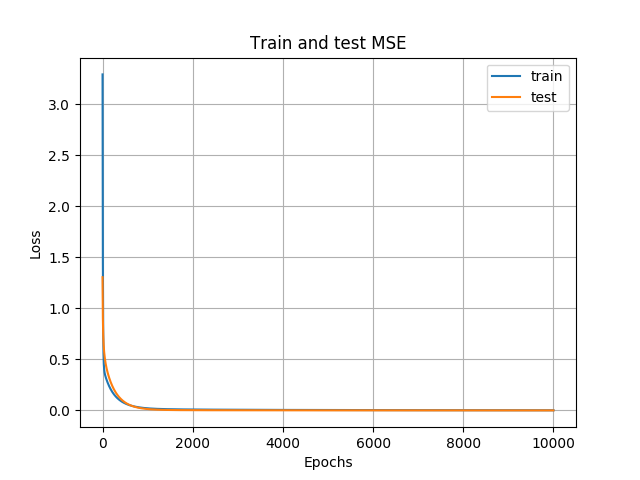
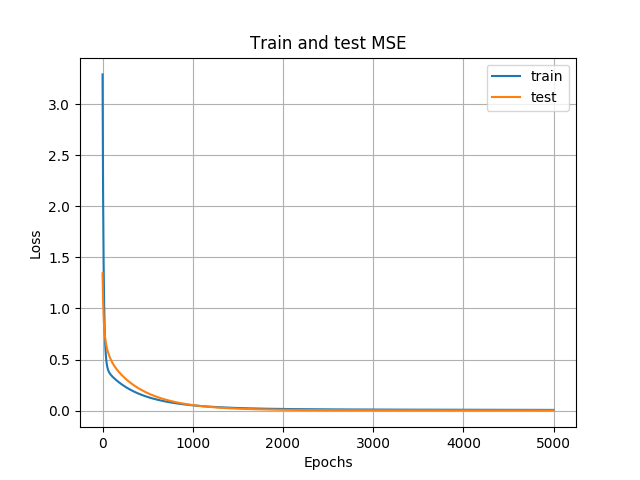
modif xlabel

diff --git a/main.py b/main.py
@@ -1,6 +1,7 @@
 
 import numpy as np
 import matplotlib.pyplot as plt
+import copy
 
 # define the sigmoid function
 def sigmoid(x, derivative=False):
@@ -24,7 +25,7 @@ def relu(x, derivative=False):
 np.random.seed(1)
 
 # learning rate
-alpha = .005
+alpha = .003
 
 # number of nodes in the hidden layer
 num_hidden = 20
@@ -32,6 +33,7 @@ num_hidden = 20
 # Construct Train and Test sest of the Sinus function
 X = np.linspace(-np.pi, np.pi, num=5000)
 X_test = np.linspace(-np.pi / 2, np.pi/2, num=5000)
+xt = copy.deepcopy(X_test)
 X = np.expand_dims(X, axis=1)
 X_test = np.expand_dims(X_test, axis=1)
 
@@ -46,7 +48,7 @@ hidden_weights = 2 * np.random.random((X.shape[1] + 1, num_hidden)) - 1
 output_weights = 2 * np.random.random((num_hidden + 1, y.shape[1])) - 1
 
 # number of iterations of gradient descent
-num_epochs = 10000
+num_epochs = 5000
 loss_per_epoch = []
 loss_test = []
 
@@ -106,8 +108,8 @@ plt.ylabel('Loss')
 plt.savefig('losses.png')
 
 plt.figure()
-plt.plot(np.arange(len(y_test)), y_test, label = 'Real sinus')
-plt.plot(np.arange(len(sinus_test)), sinus_test, label = 'Estimated')
+plt.plot(xt, y_test, label = 'Real sinus')
+plt.plot(xt, sinus_test, label = 'Estimated')
 plt.grid(True)
 plt.legend()
 plt.title('Estimation of Sinus')

diff --git a/readme.md b/readme.md
@@ -1,5 +1,5 @@
 # BackProp
-Implementation of the back propagation algorithm on a simple regression task
+Implementation of the back propagation algorithm from scratch on a simple regression task
 
 ![Screenshot](losses.png)
 
